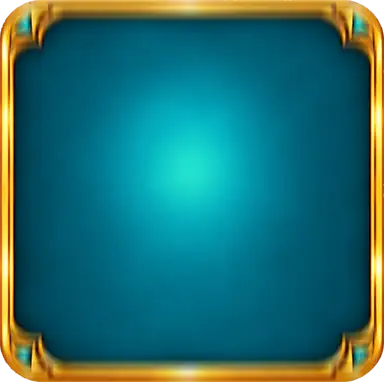
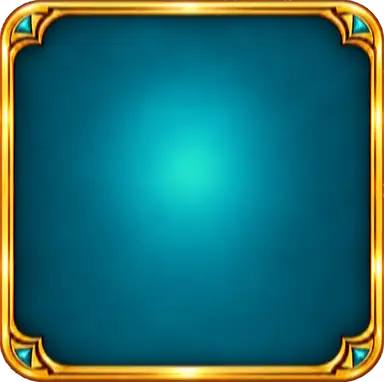
feat: slim frame v1, even window grid (no landing jump), darkened non-winning symbols with gold glow on winners, blurred tier tiles, slot +15%

Changed region(s): [[0.0, 0.8351, 1.0, 1.0], [0.0, 0.0, 1.0, 0.1728]]

diff --git a/frontend/apps/poc/src/game/skyjump_v2/presentationLayout.ts b/frontend/apps/poc/src/game/skyjump_v2/presentationLayout.ts
@@ -97,42 +97,46 @@ export const V2_PANEL_DECOR = {
  * Scale 1 keeps that hole on the grid — about 6% tighter than the previous 1.078.
  */
 /**
- * `slot_background_1.png` (1536x1024, slim frame): 25 near-square windows (137.5 x 134 art px) on a
- * 148.75 x 144.75 pitch. The frame is drawn as one piece (SlotFrameLayer with one band).
+ * `slot_background_1.png` (1672x941, slim frame v1): 25 windows of about 127.5 x 118 art px on a
+ * 153.9 x 142.9 pitch, measured from the transparent holes and snapped to an even grid (so a symbol or tile has
+ * the same offset in every cell and nothing shifts when a reel stops). Drawn as one piece (SlotFrameLayer, one band).
  */
 export const V2_FRAME_BANDS = {
-	srcH: 1024,
-	outH: 1024,
-	bands: [{ srcStart: 0, srcEnd: 1024, outStart: 0, outEnd: 1024 }],
+	srcH: 941,
+	outH: 941,
+	bands: [{ srcStart: 0, srcEnd: 941, outStart: 0, outEnd: 941 }],
 } as const;
 
-const GRID_ORIGIN = { x: 396.1, y: 140.6 };
-const PITCH = { w: 148.75, h: 144.75 };
+const PITCH = { w: 153.9, h: 142.9 };
+const WIN = { w: 127.5, h: 118 };
+/** First window's top-left corner in the art. */
+const FIRST = { x: 527 - WIN.w / 2, y: 145 };
+const GRID_ORIGIN = { x: FIRST.x - (PITCH.w - WIN.w) / 2, y: FIRST.y - (PITCH.h - WIN.h) / 2 };
 
 export const V2_SLOT_BOARD_FRAME = {
 	/** Playfield: the 5x5 block of pitches around the windows, as fractions of the art. */
-	holeLeft: GRID_ORIGIN.x / 1536,
-	holeRight: (GRID_ORIGIN.x + 5 * PITCH.w) / 1536,
-	holeTop: GRID_ORIGIN.y / 1024,
-	holeBottom: (GRID_ORIGIN.y + 5 * PITCH.h) / 1024,
+	holeLeft: GRID_ORIGIN.x / 1672,
+	holeRight: (GRID_ORIGIN.x + 5 * PITCH.w) / 1672,
+	holeTop: GRID_ORIGIN.y / 941,
+	holeBottom: (GRID_ORIGIN.y + 5 * PITCH.h) / 941,
 	scale: 1,
 	cellAspect: PITCH.w / PITCH.h,
 } as const;
 
-/** The frame's windows in art pixels (1536x1024), measured from the transparent holes. */
+/** The frame's windows in art pixels (1672x941). */
 export const V2_FRAME_WINDOWS = {
-	art: { w: 1536, h: 1024 },
+	art: { w: 1672, h: 941 },
 	origin: GRID_ORIGIN,
 	pitch: PITCH,
-	colX: [401.75, 550.25, 699.75, 848.25, 996.75],
-	rowY: [146, 290.5, 436.5, 582, 725],
+	colX: [0, 1, 2, 3, 4].map((i) => FIRST.x + PITCH.w * i),
+	rowY: [0, 1, 2, 3, 4].map((i) => FIRST.y + PITCH.h * i),
 	/** Window size, art px. */
-	winW: 137.5,
-	winH: 134,
+	winW: WIN.w,
+	winH: WIN.h,
 } as const;
 
 /** Window height / cell height: the symbol box is a whole cell, the visible window is smaller. */
-const WINDOW_FIT = 134 / PITCH.h;
+const WINDOW_FIT = WIN.h / PITCH.h;
 
 /**
  * Symbol height by tier as a fraction of the frame WINDOW height. Steps between regular tiers are 5 %

diff --git a/frontend/apps/poc/src/components/skyjump_v2/SkyJumpV2Board.svelte b/frontend/apps/poc/src/components/skyjump_v2/SkyJumpV2Board.svelte
@@ -286,7 +286,7 @@
 	const gap = 0;
 	const framePad = 0;
 	/** Slot width (px @1280): the frame art is scaled so the 5x5 playfield is this wide. */
-	const BOARD_GRID_W = 440;
+	const BOARD_GRID_W = 570;
 	// Not rounded: a rounded cell height drifts away from the frame's 133.2 art-px row pitch (up to 2.5 px by the last row).
 	const cellW = $derived(Math.max(22, px(BOARD_GRID_W) / 5));
 	const cellH = $derived(Math.max(22, cellW / V2_SLOT_BOARD_FRAME.cellAspect));
@@ -2096,7 +2096,7 @@
 
 	@keyframes tile-grow {
 		from {
-			transform: scale(0.85);
+			transform: scale(0.94);
 		}
 		to {
 			transform: scale(1);
@@ -2234,8 +2234,9 @@
 		pointer-events: none;
 	}
 
+	/* Non-winning symbols are darkened, never made see-through (that showed the window background behind the tile). */
 	.symbol.dim {
-		opacity: 0.38;
+		filter: brightness(0.45) saturate(0.7);
 	}
 
 	/* Payline pop: the symbol swells slightly and a warm backlight blooms behind it. */
@@ -2291,9 +2292,16 @@
 		}
 	}
 
+	/* Winning symbols: a golden glow around the tile and the symbol. */
 	.symbol.hit {
-		z-index: 5;
-		filter: drop-shadow(0 0 7px rgba(255, 211, 107, 0.9)) brightness(1.08);
+		z-index: 11;
+		filter: drop-shadow(0 0 5px #ffe9a0) drop-shadow(0 0 14px rgba(255, 196, 64, 1))
+			drop-shadow(0 0 26px rgba(255, 164, 32, 0.85));
+	}
+
+	.reel:not(.spinning) .symbol.hit,
+	.reel:not(.spinning) .symbol.popped {
+		z-index: 11;
 	}
 
 	.symbol.preserved {

diff --git a/docs/midnight-lounge-character-animation.md b/docs/midnight-lounge-character-animation.md
@@ -365,3 +365,11 @@ Fixed after the guideline review (verified against a local mock RGS, a productio
 - BetUI: new `betui2/minus.png` / `plus.png`; BONUS / TURBO / AUTO labels live inside their buttons so they press with the art; every
   control is 10 % smaller (each cluster shrinks towards its screen edge); switched-on buttons get a pulsing gold ring that stays under hover.
 - Woman moved up (`bottomFrac` 0.955) so the BetUI no longer covers her.
+
+## Slim frame v1, tile fixes (latest)
+
+- `scene/slot_background_1.png` is `slot_background_100x100px_windows_slim_v1.png` (1672x941, transparent): windows ~127.5x118 on a 153.9x142.9 pitch,
+  snapped to an even grid in `V2_FRAME_WINDOWS` so every cell has the same tile/symbol offset (rolling and settled used to differ by a few px = the
+  small jump when a reel stopped). Tile grow on landing now starts at 94 %. `BOARD_GRID_W` 570: the slot (frame, windows, symbols) is 15 % bigger.
+- Non-winning symbols are darkened (`filter`), not made transparent, so the window background no longer shows through the tiles; winners get a gold glow.
+- `tiles_blur/` comes from `slot_tile_backgrounds_tiers_cartoon_named_blurred.zip` (same crop and alpha as the sharp tiles), WebP q60.
